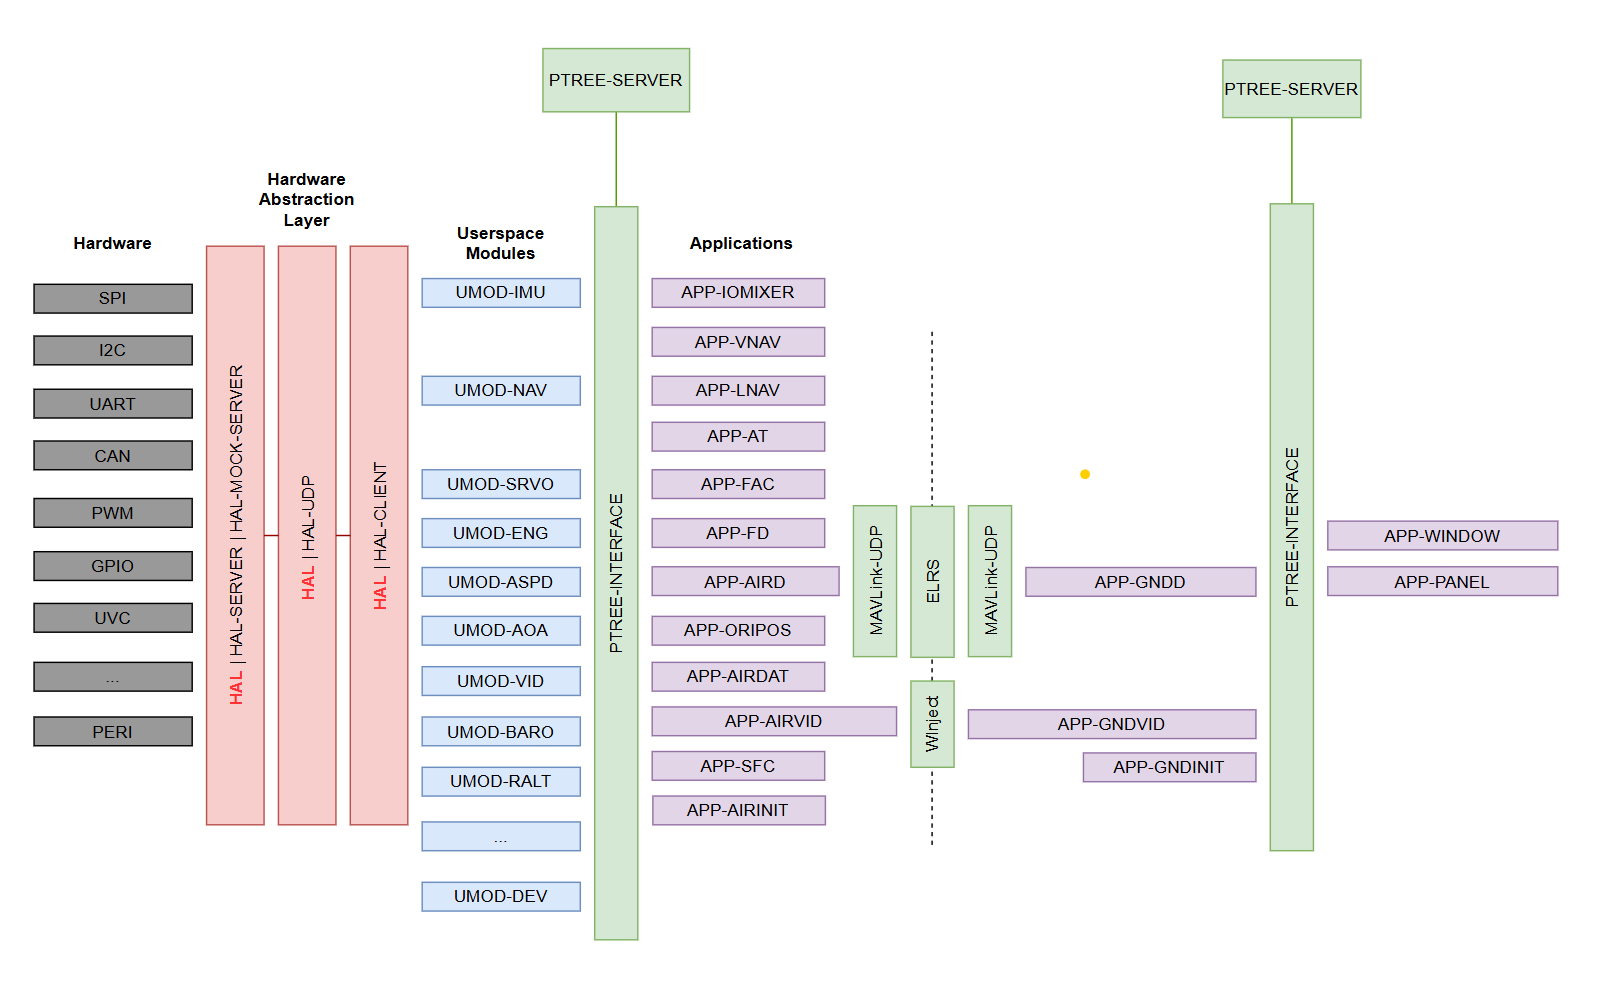
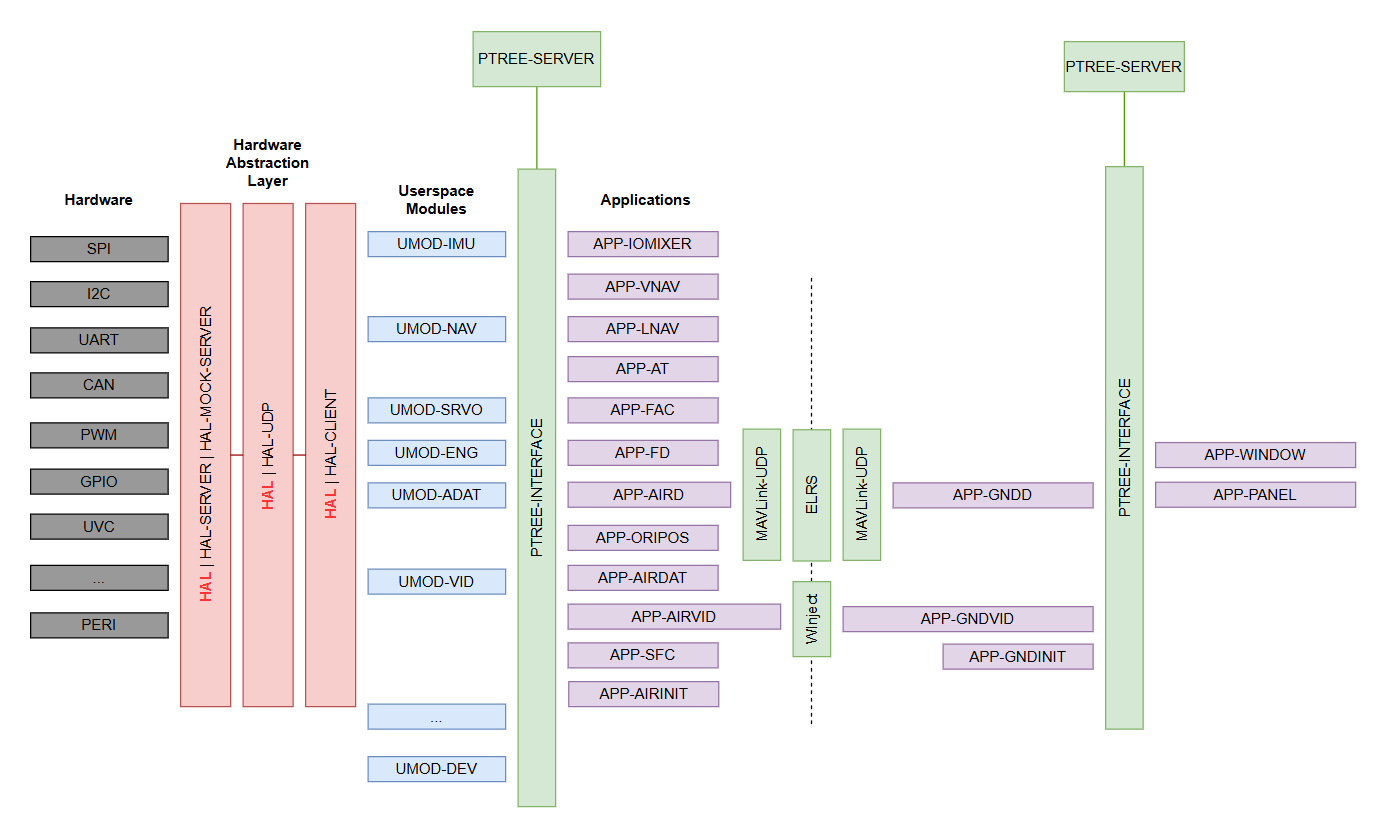
- Latest architecture

diff --git a/README.md b/README.md
@@ -1,77 +1,72 @@
 # FlyingComputer
 
 ## Architecture
-![alt text](https://raw.githubusercontent.com/therooftopprinz/FlyingComputer/master/Architecture/wholesystemv0.png "Architecture")
-## FlyBasic
-Basic control input to output mapping.
-## FlyModules
+<img src="https://raw.githubusercontent.com/therooftopprinz/FlyingComputer/master/Architecture/swcomponents.png" alt="Architecture" width="1080"/>
 
-### GY-801 (cancelled in favor of BNO55)
-Driver status
-* L3G4200D - **DONE**
-* ADXL345 - **Not tested**
-* HMC5883L - **CANCELLED**
-* BMP180 - **MOVED**
+## Software Components
+- [propertytree](https://github.com/therooftopprinz/propertytree/)
+- HAL : HAL Interface facing userspace modules (UMOD) to access the connected devices.
+  - HAL-WiringPi - Implements interface using WiringPi.
+  - HAL-WiringOP - Implements interface using WiringOP.
+  - HAL-Arduino - Implements interface using Arduino.
+  - HAL-Client - Implements interface to access simulated devices
+  - HAL-Server - Implements the simulated devices
+    - SIM-ICM42688P
+      - Interface : I2C,SPI
+    - SIM-GPIO
+      - Interface : GPIO
+    - SIM-MS4525DO
+      - Interface : I2C,SPI
+    - SIM-NEO6M
+      - Interface : UART
+    - SIM-BMP280
+      - Interface : I2C,SPI
+    - SIM-PCA9685
+      - Interface : I2C
+    - SIM-HMC5883L
+      - Interface : I2C
+    - SIM-DSERVO
+      - Interface : I2C
+    - SIM-DESC
+      - Interface : I2C
+    - SIM-VL53L0X
+      - Interface : I2C
+- UMOD : Userspace Modules
+  - UMOD-IMU : Handles IMU devices
+    - Drivers:
+      - DRV-ICMx
+      - DRV-MPUx
+  - UMOD-NAV : Handles NAV devices
+    - Drivers
+      -DRV-NEOx
+      -DRV-BMPx
+      -DRV-VL53L0x
+  - UMOD-SRVO : Handles Servos devices
+    - Drivers:
+      - DRV-GPIO
+      - DRV-DSRVO
+  - UMOD-ENG : Handles Engine/ESC devices
+    - Drivers:
+      - DRV-GPIO
+      - DRV-DESC
+  - UMOD-ASPD : Handles Airspeed and AOA devices
+    - Drivers:
+      - DRV-MSx
+      - DRV-GPIO
+  - UMOD-VID : Handles Video/Audio devices
 
-### BNO55
-9-DOF IMU with sensor fusion over UART.
+## HAL
+HAL is the interface the drivers uses in UMOD. It provides access to device through system implementations (spidev/smbus/esp-idf/arduino).
 
-### BMP180
-Temperature and Pressure sensor over I2C.
+<img src="https://raw.githubusercontent.com/therooftopprinz/FlyingComputer/master/Architecture/HAL.png" alt="Architecture" width="1080"/>
 
-### PCA9685
-16-channel 16-bit PWM controller over I2C.
+## Miletones
 
-### Nano
-Collects data from GY-NEO6MV2 over UART2, Differential Pressure sensor over analog and interfaces Raspberry Pi over bb UART.
-
-## FlyItf AIR
-Interfaces GND to FlyDb over FlyComm (PiLoRa).<br />
-Schedules periodic downlink data from FlyDb.
-
-**LoRa Packet Definition**
-
-| Name | Description | Size |
-|------|-------------|------|
-| TYPE	| Message Id		| 1 |
-| SN	| Sequence Number	| 1 |
-| MAC	| Message Integrity	| 2 |
-| DATA	| Data Payload		| N |
-
-**Payload Format**
-
-| ID	| Name	| Size |
-|-------|-------|------|
-| UID	| Param Identifier	| 1 |
-| SIZ	| Proceeding Size	| 1 |
-| DAT	| Data |SIZ |
-
-SIZ and DAT are always pair.
-
-**Message Definitions**
-
-| Message Type	| Message Name	| Data Payload |
-|---------------|---------------|--------------|
-| 0	|Read Group Request	| UID
-| 1	| Read Group Response	| DAT
-| 2	| Write Group Request	| UID \| SIZ \| DAT
-| 3	| Write Group Response	
-| 4	| Write Group Indication	| UID \| SIZ \| DAT
-| 5	| Read Data Request	| UID
-| 6	| Read Data Response	| SIZ \| DAT
-| 7	| Write Data Request	| UID \| SIZ \| DAT
-| 8	| Write Data Response	
-| 9	| Write Data Indication	| UID \| SIZ \| DAT
-
-## FlyItf GND
-Interfaces FlyDb to user input / output display.<br />
-Schedules periodic uplink data from user input and setting.
-
-## FlyComm
-see https://github.com/therooftopprinz/PiLoRa
-
-
-## FlyPilot
-Advance auto pilot and fly by wire.
-
-![alt text](https://raw.githubusercontent.com/therooftopprinz/FlyingComputer/master/Architecture/fcapcs.png "FlyAdvance")
+- [x] PropertyTree Value
+- [ ] PropertyTree Node
+- [ ] HAL Interface
+- [ ] SIM-ICM42688P
+- [ ] DRV-ICM42688P
+- [ ] UMOD-IMU
+- [ ] MSFS2020 SimConnect IMU
+- [ ] APP-ORIPOS and APP-IOMIXER
